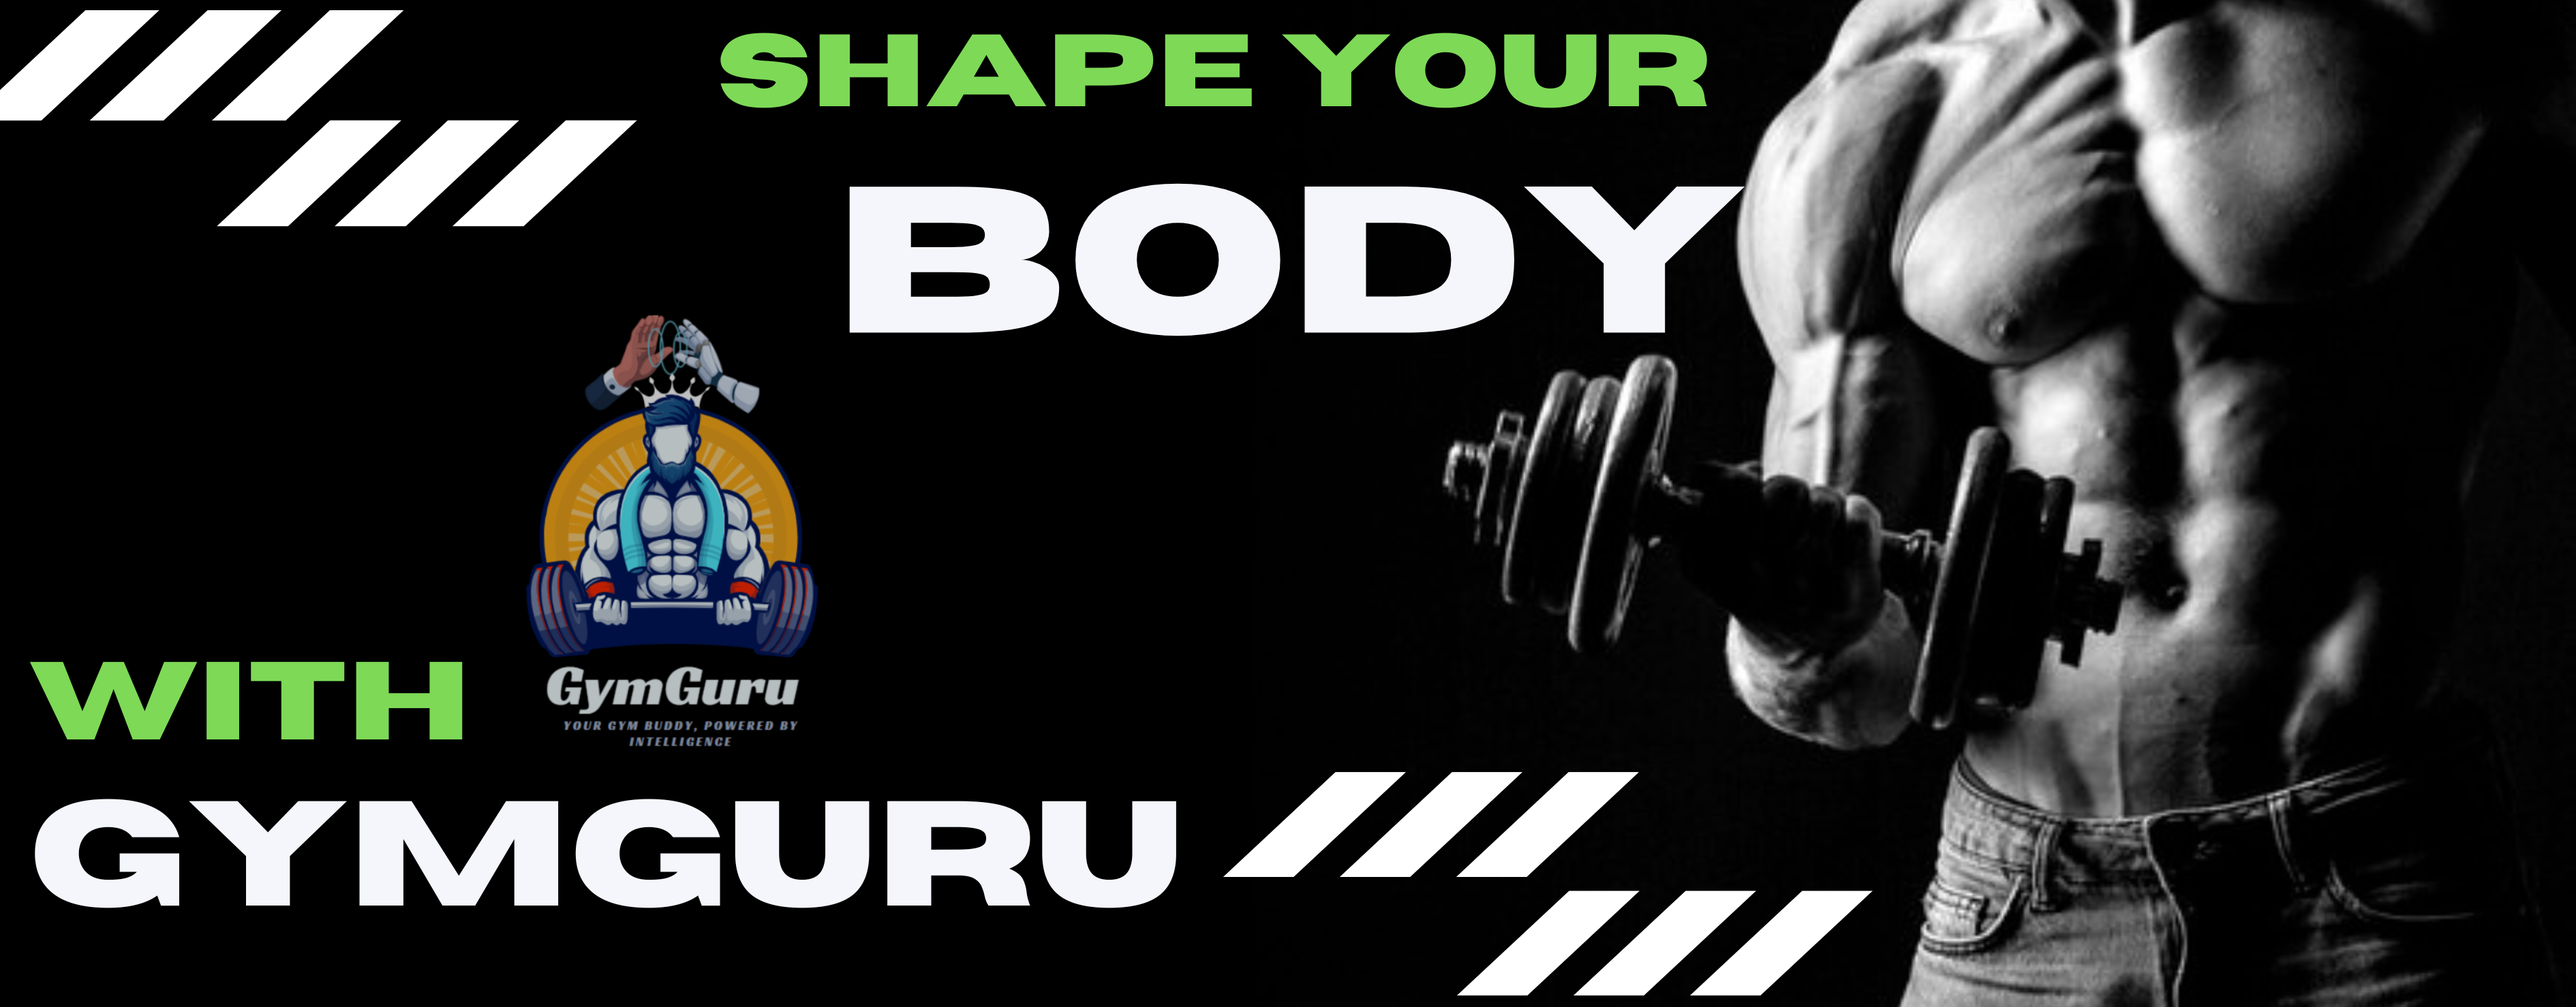
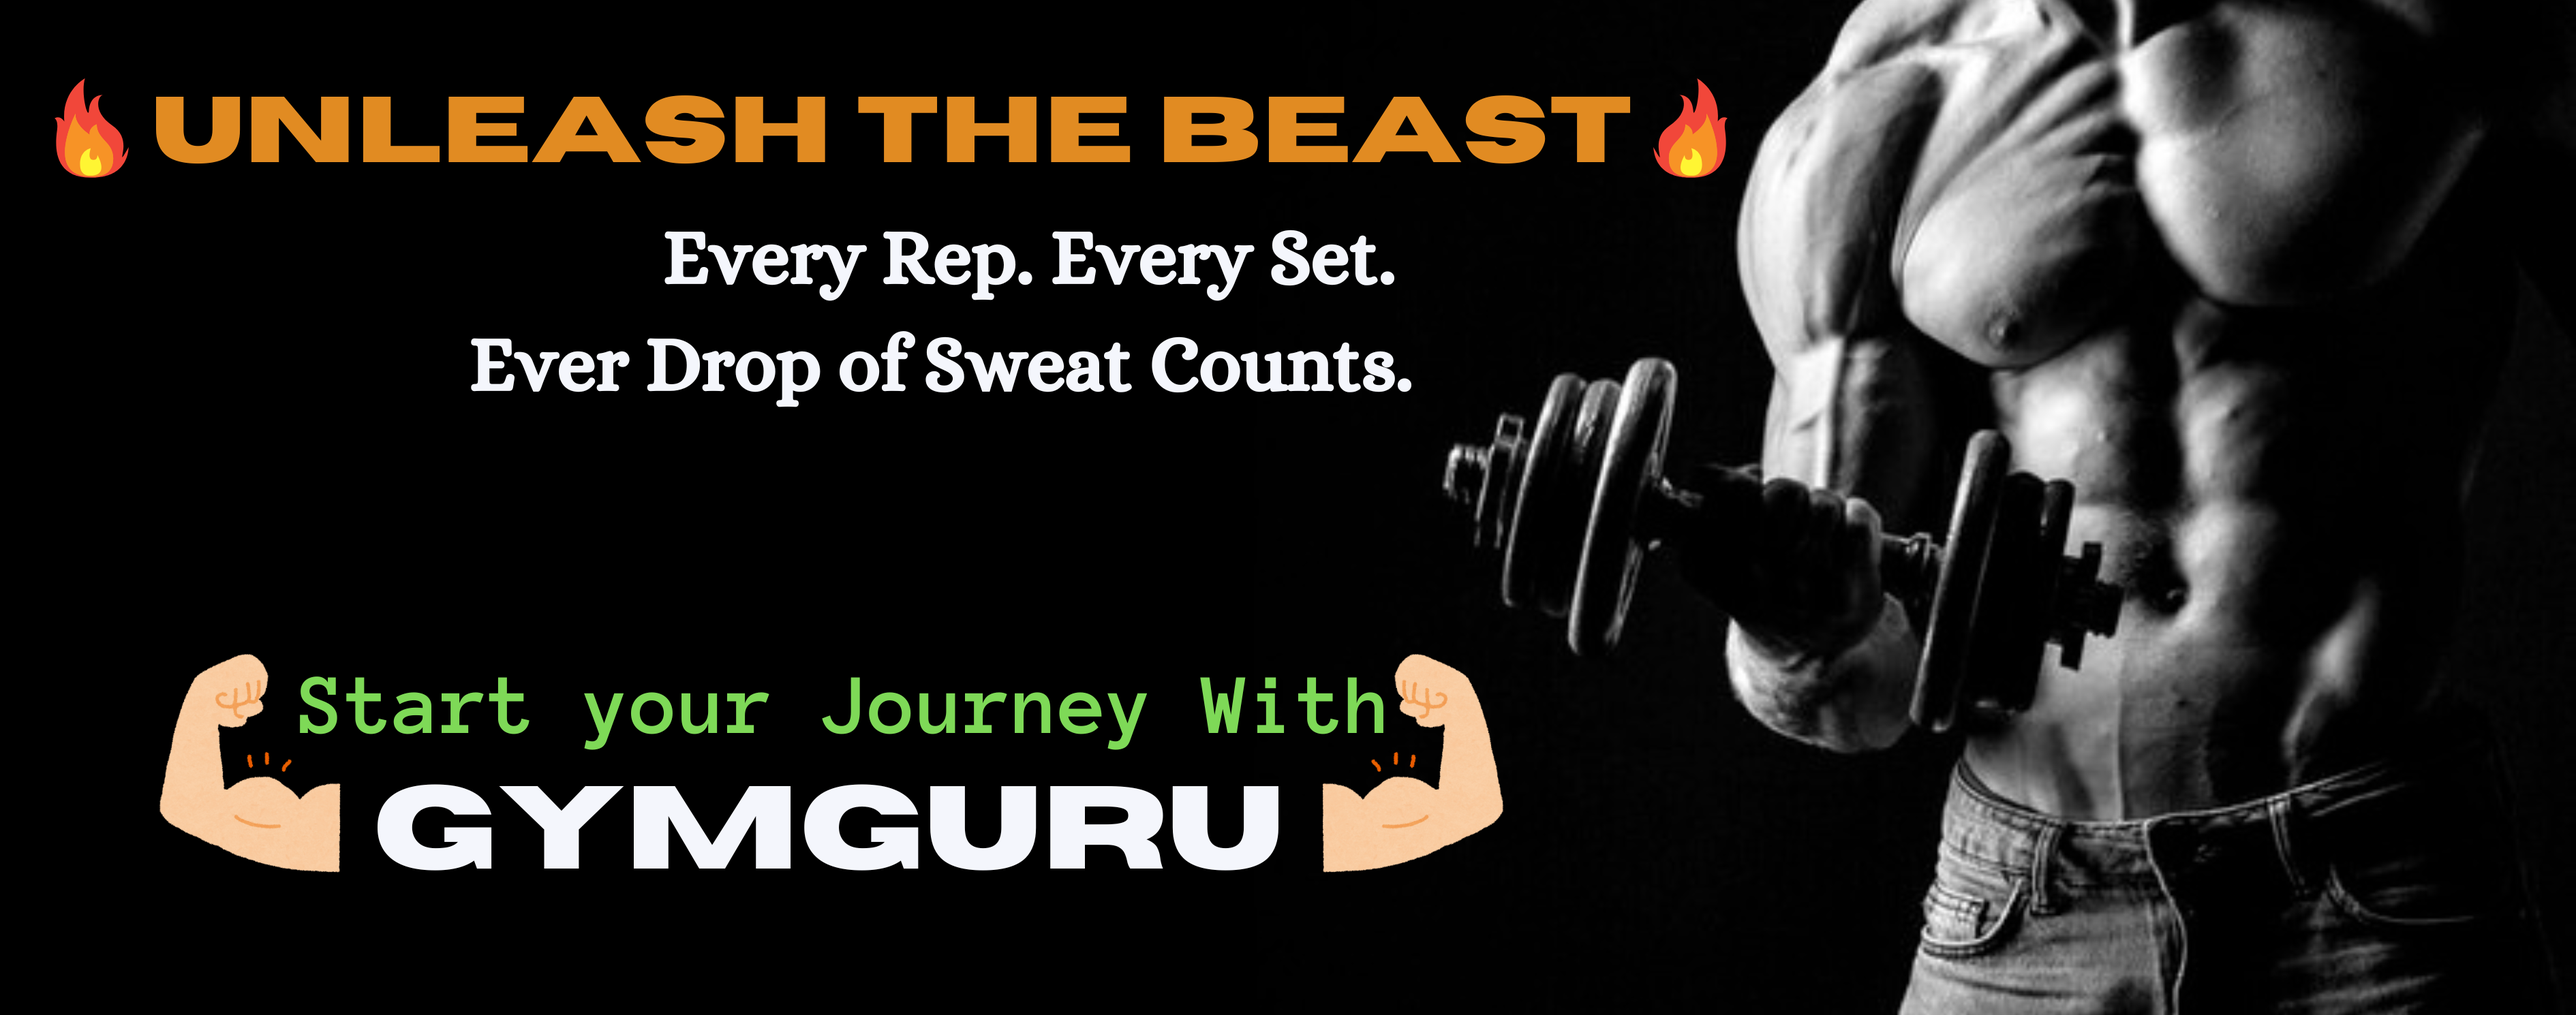
Ab pkka nhi krungi

diff --git a/frontend/index.html b/frontend/index.html
@@ -2,9 +2,9 @@
 <html lang="en">
   <head>
     <meta charset="UTF-8" />
-    <link rel="icon" type="image/svg+xml" href="/vite.svg" />
+    <link rel="icon" type="image/svg+xml" href="/src/assets/Icon.png" />
     <meta name="viewport" content="width=device-width, initial-scale=1.0" />
-    <title>Vite + React</title>
+    <title>GymGuru</title>
     <script src="https://cdn.tailwindcss.com"></script>
   </head>
   <body style="background-color: #4B5563;">

diff --git a/frontend/src/components/Dashboard.jsx b/frontend/src/components/Dashboard.jsx
@@ -1,6 +1,6 @@
 import { useState, useEffect } from "react";
 import { Link } from "react-router-dom";
-import image from "../assets/DashBanner.png";
+import image from "../assets/DashBanner01.png";//Subject to changes
 import guruImg from "../assets/guru.png";
 
 const Dashboard = () => {
